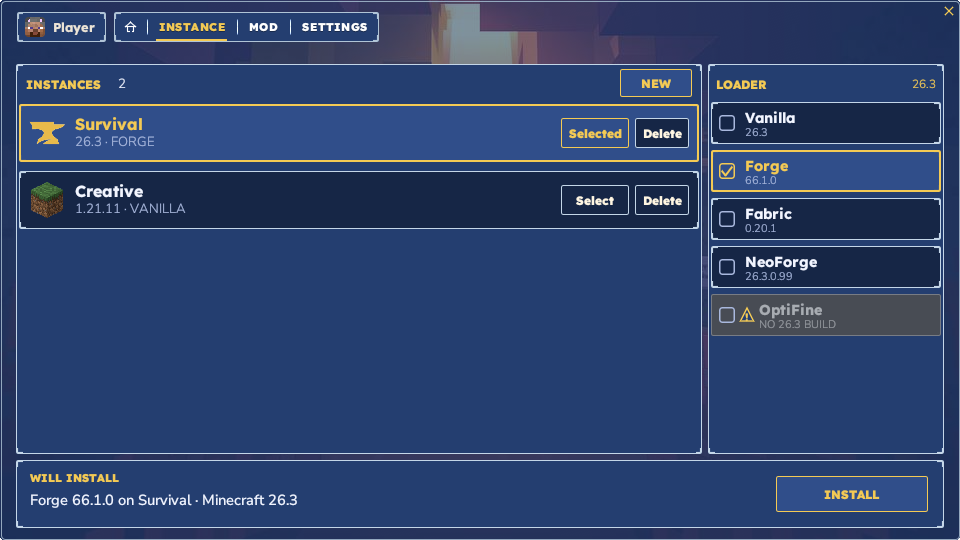
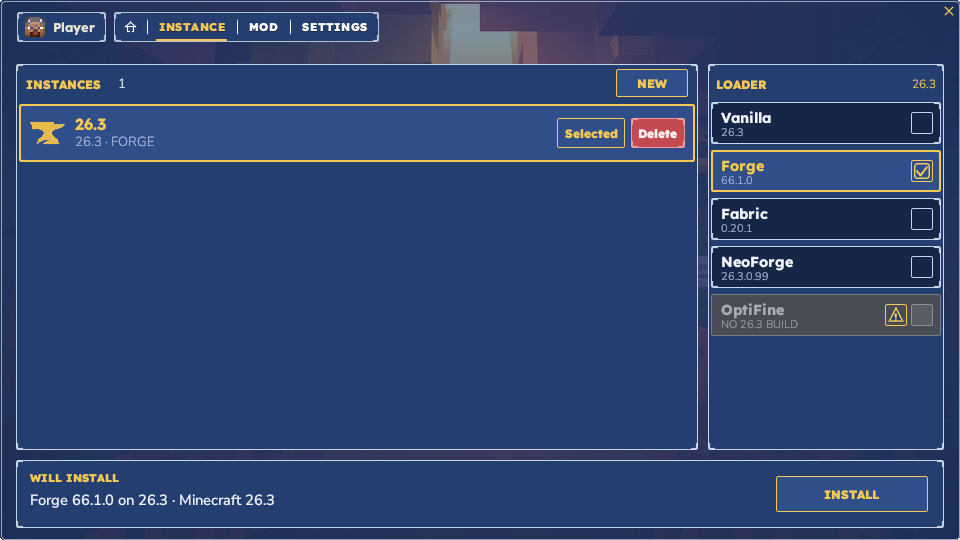
Release 0.2.23 with a right-side loader tick and a red Delete.
The three Instance boxes sit 10px apart. A tick turns on with one click and off with the next. The warning sits 4px beside it.

diff --git a/src/desktop.rs b/src/desktop.rs
@@ -480,17 +480,18 @@ impl Desktop {
     /// On/off. One loader stays on. Forge and OptiFine may both stay on.
     fn toggle_loader(&mut self, id: &str) {
         let on = self.loader_active(id);
-        let next = match id {
-            "vanilla" => "vanilla",
-            "optifine" if on && self.loader == "forge+optifine" => "forge",
-            "optifine" if !on && (self.loader == "forge" || self.loader == "forge+optifine") => "forge+optifine",
-            "optifine" if on => "vanilla",
-            "optifine" => "optifine",
-            "forge" if on => "vanilla",
-            "forge" => "forge",
-            "fabric" | "neoforge" if on => "vanilla",
-            "fabric" | "neoforge" => id,
-            _ => return,
+        let next = if on {
+            match (id, self.loader.as_str()) {
+                ("optifine", "forge+optifine") => "forge",
+                ("forge", "forge+optifine") => "optifine",
+                _ => "",
+            }
+        } else if id == "optifine" && (self.loader == "forge" || self.loader == "forge+optifine") {
+            "forge+optifine"
+        } else if id == "forge" && self.loader == "optifine" {
+            "forge+optifine"
+        } else {
+            id
         };
         if self.loader == next {
             return;
@@ -1471,7 +1472,7 @@ impl Desktop {
 
     fn paint_version_page(&mut self, ui: &mut egui::Ui, full: egui::Rect) {
         let content = spec_content(full);
-        let gap = 5.7;
+        let gap = 10.0;
         let foot_h = 68.0;
         let loader_w = 236.0;
         let top_h = content.height() - foot_h - gap;
@@ -1548,7 +1549,7 @@ impl Desktop {
                 if opaque_button(ui, select, if on { "Selected" } else { "Select" }, on) {
                     pick = Some(inst.id.clone());
                 }
-                if opaque_button(ui, delete, "Delete", false) {
+                if red_button(ui, delete, "Delete") {
                     drop_id = Some(inst.id.clone());
                 }
             }
@@ -1588,18 +1589,33 @@ impl Desktop {
             } else {
                 paint_opaque_card(ui.painter(), rect, on);
             }
-            let tick = egui::Rect::from_center_size(egui::pos2(rect.left() + 16.0, rect.center().y), egui::vec2(16.0, 16.0));
-            paint_check(ui.painter(), tick, on && !missing);
+            let tick = egui::Rect::from_min_size(egui::pos2(rect.right() - 30.0, rect.center().y - 11.0), egui::vec2(22.0, 22.0));
+            let warn = egui::Rect::from_min_size(egui::pos2(tick.left() - 4.0 - 22.0, tick.top()), egui::vec2(22.0, 22.0));
             if missing {
-                paint_warn(ui.painter(), egui::pos2(tick.right() + 12.0, rect.center().y));
+                ui.painter().rect_filled(warn, 1.5, egui::Color32::from_rgb(72, 76, 84));
+                ui.painter().rect_stroke(warn, 1.5, egui::Stroke::new(1.0, GOLD), egui::StrokeKind::Inside);
+                paint_warn(ui.painter(), warn.center());
             }
-            let text_x = if missing { tick.right() + 24.0 } else { tick.right() + 10.0 };
+            let tick_fill = if missing {
+                egui::Color32::from_rgb(90, 94, 100)
+            } else if on {
+                egui::Color32::from_rgb(48, 78, 138)
+            } else {
+                egui::Color32::from_rgb(22, 38, 70)
+            };
+            let tick_edge = if on && !missing { GOLD } else if missing { egui::Color32::from_rgb(140, 144, 150) } else { egui::Color32::from_rgb(196, 214, 232) };
+            ui.painter().rect_filled(tick, 1.5, tick_fill);
+            ui.painter().rect_stroke(tick, 1.5, egui::Stroke::new(1.0, tick_edge), egui::StrokeKind::Inside);
+            if on && !missing {
+                paint_check(ui.painter(), tick.shrink(3.0), true);
+            }
+            let text_right = if missing { warn.left() - 8.0 } else { tick.left() - 8.0 };
             let ink = if missing { egui::Color32::from_rgb(168, 172, 178) } else if on { GOLD } else { SPEC_TEXT };
             let detail = if row.version.is_empty() { row.detail.clone() } else { row.version.clone() };
-            ui.painter().text(egui::pos2(text_x, rect.top() + 15.0), egui::Align2::LEFT_CENTER, row.name, title_font(14.0), ink);
-            ui.painter().text(egui::pos2(text_x, rect.top() + 30.0), egui::Align2::LEFT_CENTER, &ellipsize(ui.painter(), &detail, sub_font(11.0), rect.right() - text_x - 8.0), sub_font(11.0), if missing { egui::Color32::from_rgb(150, 154, 160) } else { SPEC_MUTED });
+            ui.painter().text(egui::pos2(rect.left() + 10.0, rect.top() + 15.0), egui::Align2::LEFT_CENTER, row.name, title_font(14.0), ink);
+            ui.painter().text(egui::pos2(rect.left() + 10.0, rect.top() + 30.0), egui::Align2::LEFT_CENTER, &ellipsize(ui.painter(), &detail, sub_font(11.0), text_right - rect.left() - 12.0), sub_font(11.0), if missing { egui::Color32::from_rgb(150, 154, 160) } else { SPEC_MUTED });
             if !missing {
-                let hit = ui.interact(tick.expand(6.0), egui::Id::new("loader-toggle").with(row.id), Sense::click());
+                let hit = ui.interact(tick, egui::Id::new("loader-toggle").with(row.id), Sense::click());
                 if hit.clicked() {
                     clicked = Some(row.id.to_string());
                 }
@@ -1656,7 +1672,7 @@ impl Desktop {
         if opaque_button(ui, cancel, "Cancel", false) || ui.input(|i| i.key_pressed(egui::Key::Escape)) {
             self.confirm_instance = None;
         }
-        if opaque_button(ui, ok, "Delete", true) || ui.input(|i| i.key_pressed(egui::Key::Enter)) {
+        if red_button(ui, ok, "Delete") || ui.input(|i| i.key_pressed(egui::Key::Enter)) {
             self.delete_instance(&id);
             self.confirm_instance = None;
         }
@@ -4159,6 +4175,19 @@ fn paint_opaque_card(painter: &egui::Painter, rect: egui::Rect, selected: bool) 
     painter.rect_filled(rect, 1.5, fill);
     painter.rect_stroke(rect, 1.5, egui::Stroke::new(if selected { 2.0 } else { 1.0 }, edge), egui::StrokeKind::Inside);
     paint_corner_caps(painter, rect, edge);
+}
+
+fn red_button(ui: &mut egui::Ui, rect: egui::Rect, label: &str) -> bool {
+    let hit = ui.interact(rect, egui::Id::new("red-btn").with(rect.top().to_bits()).with(rect.left().to_bits()).with(label), Sense::click());
+    let fill = if hit.hovered() { egui::Color32::from_rgb(214, 92, 98) } else { egui::Color32::from_rgb(196, 74, 82) };
+    ui.painter().rect_filled(rect, 1.5, fill);
+    ui.painter().rect_stroke(rect, 1.5, egui::Stroke::new(1.0, egui::Color32::from_rgb(232, 156, 156)), egui::StrokeKind::Inside);
+    paint_corner_caps(ui.painter(), rect, egui::Color32::from_rgb(232, 156, 156));
+    ui.painter().text(rect.center(), egui::Align2::CENTER_CENTER, label, nav_font(12.0), egui::Color32::from_rgb(255, 244, 242));
+    if hit.hovered() {
+        ui.ctx().set_cursor_icon(CursorIcon::PointingHand);
+    }
+    hit.clicked()
 }
 
 fn opaque_button(ui: &mut egui::Ui, rect: egui::Rect, label: &str, primary: bool) -> bool {

diff --git a/README.md b/README.md
@@ -124,8 +124,8 @@ Linux sandbox: `apt install bubblewrap`. Without it, the client still gets a pri
 
 | Platform | File |
 | --- | --- |
-| Linux x86-64 | [rus-linux-x86_64](https://github.com/obsifox/rus/releases/download/0.2.22/rus-linux-x86_64) |
-| Windows x64 | [rus-windows-x64.exe](https://github.com/obsifox/rus/releases/download/0.2.22/rus-windows-x64.exe) |
+| Linux x86-64 | [rus-linux-x86_64](https://github.com/obsifox/rus/releases/download/0.2.23/rus-linux-x86_64) |
+| Windows x64 | [rus-windows-x64.exe](https://github.com/obsifox/rus/releases/download/0.2.23/rus-windows-x64.exe) |
 
 Linux:
 
